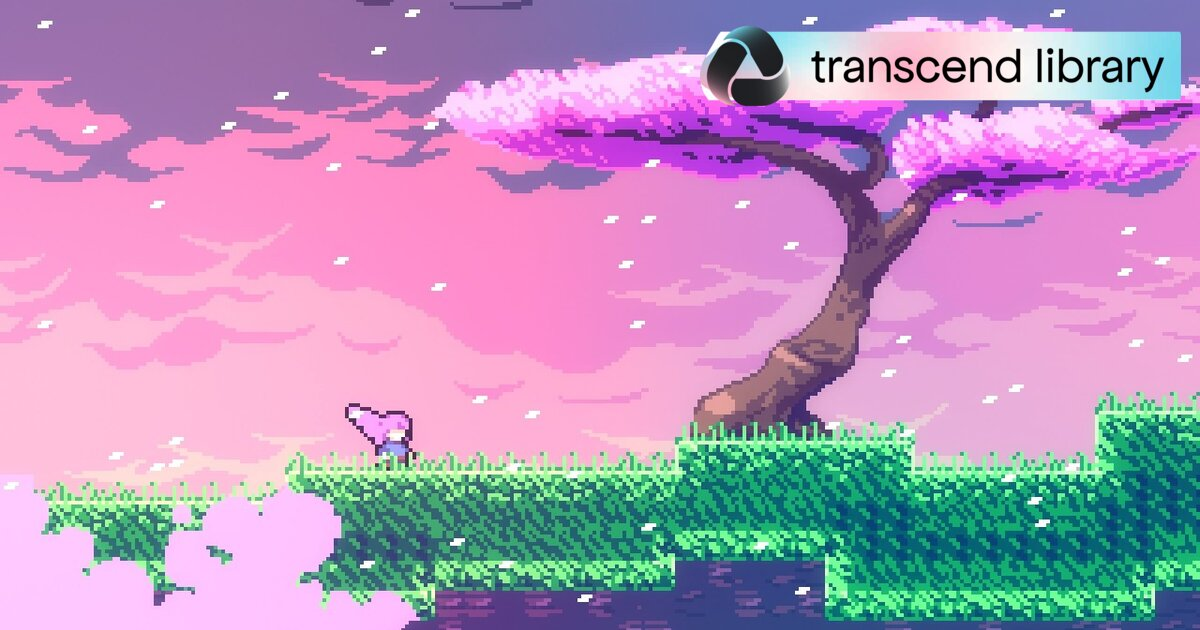
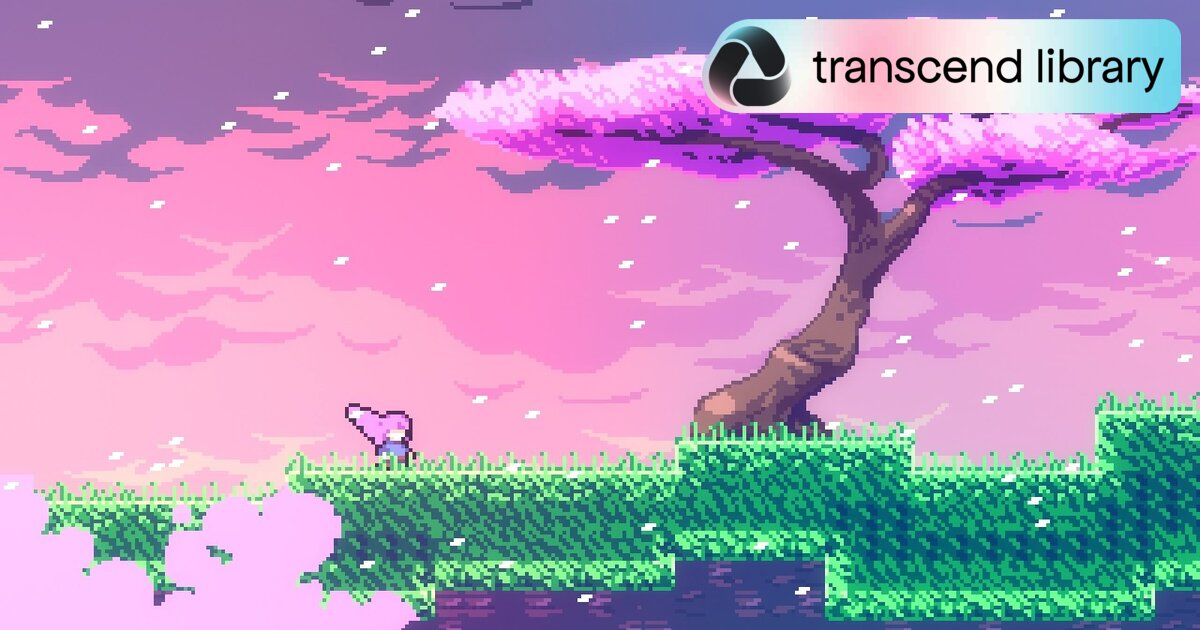
git good

Changed region(s): [[0.5858, 0.0302, 0.9867, 0.181]]

diff --git a/assets/js/nav.js b/assets/js/nav.js
@@ -25,6 +25,23 @@
     });
   });
 
+  /* ---- /guide dropdown: full-width panel when the nav has wrapped under the logo ---- */
+  var menu = document.querySelector(".menu");
+  var logo = document.querySelector(".menu .logo");
+  var guideSummary = document.querySelector(".dropdown summary");
+  function layoutMenu() {
+    if (!menu || !logo || !guideSummary) return;
+    menu.classList.remove("menu-stacked");
+    var stacked = guideSummary.getBoundingClientRect().top >= logo.getBoundingClientRect().bottom;
+    menu.classList.toggle("menu-stacked", stacked);
+  }
+  layoutMenu();
+  window.addEventListener("resize", layoutMenu);
+  if (document.fonts && document.fonts.ready) document.fonts.ready.then(layoutMenu);
+  document.querySelectorAll(".dropdown details").forEach(function (d) {
+    d.addEventListener("toggle", layoutMenu);
+  });
+
   /* ---- light / dark toggle ---- */
   var themeBtn = document.getElementById("theme-toggle");
   var systemDark = window.matchMedia("(prefers-color-scheme: dark)");
@@ -73,6 +90,7 @@
       else root.removeAttribute("data-font-size");
       store("font-size", next.key);
       renderSize();
+      layoutMenu();
     });
     renderSize();
   }

diff --git a/_sass/base.scss b/_sass/base.scss
@@ -130,5 +130,20 @@ footer { display: flex; justify-content: flex-end; align-items: baseline; flex-w
 .dark-only { display: var(--dark-only); }
 
 /* Brand logos on the copyright page */
-.brand-logos { margin: 8px 0 18px; }
+.brand-logos { margin: 8px 0 18px; text-align: center; }
+.brand-logos img { margin: 0 auto; }
 .brand-logos img { width: 100%; max-width: 360px; height: auto; }
+
+/* Small screens: the nav wraps under the logo and /guide sits at the left edge, so
+   drop the menu down as a full-width panel under the whole nav bar instead of
+   hanging it off /guide (which pushed it off-screen). */
+/* nav.js adds .menu-stacked whenever the nav wraps below the logo (any width or text
+   size); the media query is the no-JS fallback. */
+.menu.menu-stacked { position: relative; }
+.menu.menu-stacked .dropdown { position: static; }
+.menu.menu-stacked .dropdown details > ul { left: 0; right: 0; top: calc(100% + 6px); min-width: 0; max-width: none; }
+@media (max-width: 600px) {
+  .menu { position: relative; }
+  .dropdown { position: static; }
+  .dropdown details > ul { left: 0; right: 0; top: calc(100% + 6px); min-width: 0; max-width: none; }
+}

diff --git a/_sass/_notion.scss b/_sass/_notion.scss
@@ -57,8 +57,8 @@ details.toggle > div { padding-left: 1.2em; margin-top: 0.6em; }
 @media (max-width: 600px) { .columns { flex-direction: column; gap: 0; } }
 
 /* Images */
-figure.image { margin: 0 0 15px; }
-figure.image img { display: block; max-width: 100%; height: auto; }
+figure.image { margin: 0 0 15px; text-align: center; }   /* inline images are centred */
+figure.image img { display: block; max-width: 100%; height: auto; margin: 0 auto; }
 figure.image a:hover { background: none; }
 
 /* Zoom: hover hint on the page, click opens the lightbox (nav.js) */

diff --git a/_tools/make_previews.py b/_tools/make_previews.py
@@ -4,13 +4,13 @@
 For each page in content/_guides/ with a `cover:`, writes
 assets/img/previews/<file name>.jpg: the cover cropped to fill 1200x630
 (keeping its `cover_position` focal point), with the overlay
-(_tools/assets/preview-overlay.svg) in the top-right corner at 15% of the
-image height and ~3% padding. _plugins/social.rb uses these automatically.
+(_tools/assets/preview-overlay.png, transparent background) in the top-right
+corner at 15% of the image height and ~3% padding. _plugins/social.rb uses
+these automatically.
 
 Re-run after changing a cover or the overlay:
     python3 _tools/make_previews.py
-Needs ImageMagick (`magick`), `rsvg-convert` and `curl`. The overlay's text is
-set in Apfel Grotezk, so that font must be installed where this runs.
+Needs ImageMagick (`magick`) and `curl` (for covers hosted elsewhere).
 """
 import hashlib
 import re
@@ -18,7 +18,7 @@ import subprocess
 from pathlib import Path
 
 ROOT = Path(__file__).resolve().parent.parent
-OVERLAY_SVG = ROOT / "_tools" / "assets" / "preview-overlay.svg"
+OVERLAY = ROOT / "_tools" / "assets" / "preview-overlay.png"
 OUT = ROOT / "assets" / "img" / "previews"
 CACHE = ROOT / "_tools" / "preview-cache"   # downloaded remote covers (git-ignored)
 
@@ -51,10 +51,7 @@ def local_cover(cover):
 def main():
     OUT.mkdir(parents=True, exist_ok=True)
     CACHE.mkdir(parents=True, exist_ok=True)
-    # Overlay: rasterise at 4x for crisp text, then scale down to the final height.
-    overlay_png = CACHE / "overlay.png"
-    subprocess.run(["rsvg-convert", "-h", str(OVERLAY_H * 4), "-b", "none", str(OVERLAY_SVG),
-                    "-o", str(overlay_png)], check=True)
+    overlay_png = OVERLAY
     for page in sorted((ROOT / "content" / "_guides").glob("*.md")):
         fm = front_matter(page)
         cover = fm.get("cover")

diff --git a/content/_guides/psychological-emotional-resources.md b/content/_guides/psychological-emotional-resources.md
@@ -94,11 +94,11 @@ If you’ve already gone through the gender-affirming care routes that are avail
 
 Some hospitals, like CGH, have trained psychologists who can help in talking therapy when it comes to issues like gender. At CGH, you’ll get an open appointment date that you can use to seek assistance with regards to other issues apart from gender, as well as help with talking therapy and psychotherapy.
 
-We’re still not sure as to whether NUH or other hospitals provide psychological care. It is possible to get psychological care from other hospitals and to be assessed for other mental health conditions (like depression, ADHD and autism); the process to do so is largely similar to the process of getting a gender dysphoria diagnosis through a polyclinic.
+It is possible to get psychological care from other hospitals and to be assessed for other mental health conditions (like depression, ADHD and autism); the process to do so is largely similar to the process of getting a gender dysphoria diagnosis through a polyclinic.
 
 It is also generally possible for you to see a psychologist at some polyclinics, or be referred to an IMH psychologist or psychiatrist.
 
-If you want to be assessed for certain mental health conditions in public healthcare - do note that these will inadvertently show up on records, and while discrimination based on mental health conditions is illegal, it may continue to happen. If you can afford it and want to be assessed for a certain condition (like autism or ADHD) and do not want it to be formally placed on the record, then it may be better to seek out private practice.
+If you want to be assessed for certain mental health conditions in public healthcare - do note that these will inadvertently show up on records. Your employer should not have access to any of them. If you can afford it and want to be assessed for a certain condition (like autism or ADHD) and do not want it to be formally placed on the record, then it may be better to seek out private practice.
 
 ### Psychological medicine in private healthcare
 {: #h-368c1663-dd06-4ef4-94a1-08abaa39fc9a}
@@ -119,14 +119,14 @@ Note that some of these private psychiatrists may be able to help you get throug
 <p class="db-title"><strong>Private psychiatric support and assessments</strong></p>
 <div class="db-cards">
 <article class="db-card">
-<h3 class="db-card-title">Dr Zheng</h3>
+<h3 class="db-card-title">Dr Zheng Zhimin</h3>
 <div class="db-card-type"><span class="db-card-role">Psychiatric assessment</span></div>
-<dl class="db-card-fields"><dt>Prices and costs</dt><dd>$170 for first 15 minutes; $90 for every 15 minutes afterward</dd><dt>What else can they provide?</dt><dd>Assessments for procedures like sex reassignment surgery<br>Doctor’s memos for SAF medical reviews or university admissions</dd><dt>Remarks</dt><dd><em>We don’t know much about Dr Zheng and where she would recommend if you’re going to private endocrinology. <br></em><br><em>Dr Zheng will probably continue to be a good</em> (if not costly) <em>place for things like memos for NS/university/school accommodations and visits with parents.</em></dd></dl>
+<dl class="db-card-fields"><dd><a href="https://www.dr-zhengzhimin.com/">Website</a></dd><dt>What can they provide?</dt><dd>Assessments for procedures like sex reassignment surgery<br>Doctor’s memos for SAF medical reviews or university admissions</dd><dt>Remarks</dt><dd><em>Dr Zheng will likely give you a reference for a public endocrinologist, though private endos can be available on request.<br></em><br><em>She will probably continue to be a good</em> (if not costly) <em>place for things like memos for NS/university/school accommodations and visits with parents.</em></dd></dl>
 </article>
 <article class="db-card">
 <h3 class="db-card-title">Dr Tan Sheng Neng</h3>
 <div class="db-card-type"><span class="db-card-role">Psychiatric assessment</span></div>
-<dl class="db-card-fields"><dt>Prices and costs</dt><dd>First session $300<br>About $100-200 for subsequent sessions</dd><dt>What else can they provide?</dt><dd>Assessments for HRT (with the private route)</dd><dt>Remarks</dt><dd>A diagnosis with GD will be more thorough with more sessions to get through.</dd></dl>
+<dl class="db-card-fields"><dd><a href="https://www.thesafetynet.com.sg/">Website</a></dd><dt>What can they provide?</dt><dd>Assessments for HRT (with the private route)</dd><dt>Remarks</dt><dd>A diagnosis with GD will be more thorough with more sessions to get through.</dd></dl>
 </article>
 </div>
 
@@ -146,7 +146,7 @@ Seeking counselling and psychotherapy will also help with dealing with some aspe
 <div class="callout-icon" aria-hidden="true"><img src="/assets/notion/psychological-emotional-resources/ralpoint.png" alt=""></div>
 <div class="callout-body" markdown="1">
 
-The following section is written from Ralsei’s perspective - reach out to them for more details on Transcend!
+The following section is written from the Pleiadesfolk’s (Ralsei's) perspective.
 
 </div>
 </aside>
@@ -191,10 +191,9 @@ A list of providers for counselling and psychotherapy (from the version 1 guide)
 <p class="db-card-links"><a href="https://counsel.org.sg/">Website</a></p>
 </article>
 <article class="db-card">
-<h3 class="db-card-title">The Relational Counselling Studio</h3>
-<div class="db-card-type"><span class="db-card-role">Professional therapy</span></div>
-<dl class="db-card-fields"><dt>Prices and costs</dt><dd><em>unknown</em></dd></dl>
-<p class="db-card-links"><a href="mailto:andrea.mayrhofer@therelational.com.sg">Website</a></p>
+<h3 class="db-card-title">Singapore Counselling Centre</h3>
+<div class="db-card-type"><span class="db-card-role">Professional counselling</span></div>
+<p class="db-card-links"><a href="https://scc.sg/e/">Website</a> <a href="https://scc.sg/e/counselling-fees/">Prices and costs</a></p>
 </article>
 <article class="db-card">
 <h3 class="db-card-title">Alliance Counselling</h3>
@@ -211,6 +210,6 @@ A list of providers for counselling and psychotherapy (from the version 1 guide)
 <h3 class="db-card-title">CGH Psychological Medicine</h3>
 <div class="db-card-type"><span class="db-card-role">Psychology and psychotherapy</span></div>
 <dl class="db-card-fields"><dt>Prices and costs</dt><dd>$40 per session</dd><dt>What else can they provide?</dt><dd>You can visit the psychologist if needed; it’s uncertain if you can bring family members or others.</dd></dl>
-<p class="db-card-links"><a href="-">Website</a></p>
+<p class="db-card-links"><a href="https://www.cgh.com.sg/our-specialties/psychological-medicine">Website</a></p>
 </article>
 </div>

diff --git a/README.md b/README.md
@@ -5,8 +5,8 @@ The Transcend Library repository,.
 
 `_plugins/social.rb` fills in each page's preview image and description. Guides with a
 cover use a branded preview from `assets/img/previews/` (cover + the overlay in
-`_tools/assets/preview-overlay.svg`, top right). After changing a cover or the overlay,
-regenerate them (needs ImageMagick, `rsvg-convert` and the Apfel Grotezk font installed):
+`_tools/assets/preview-overlay.png`, top right). After changing a cover or the overlay,
+regenerate them (needs ImageMagick):
 
 ```bash
 python3 _tools/make_previews.py
